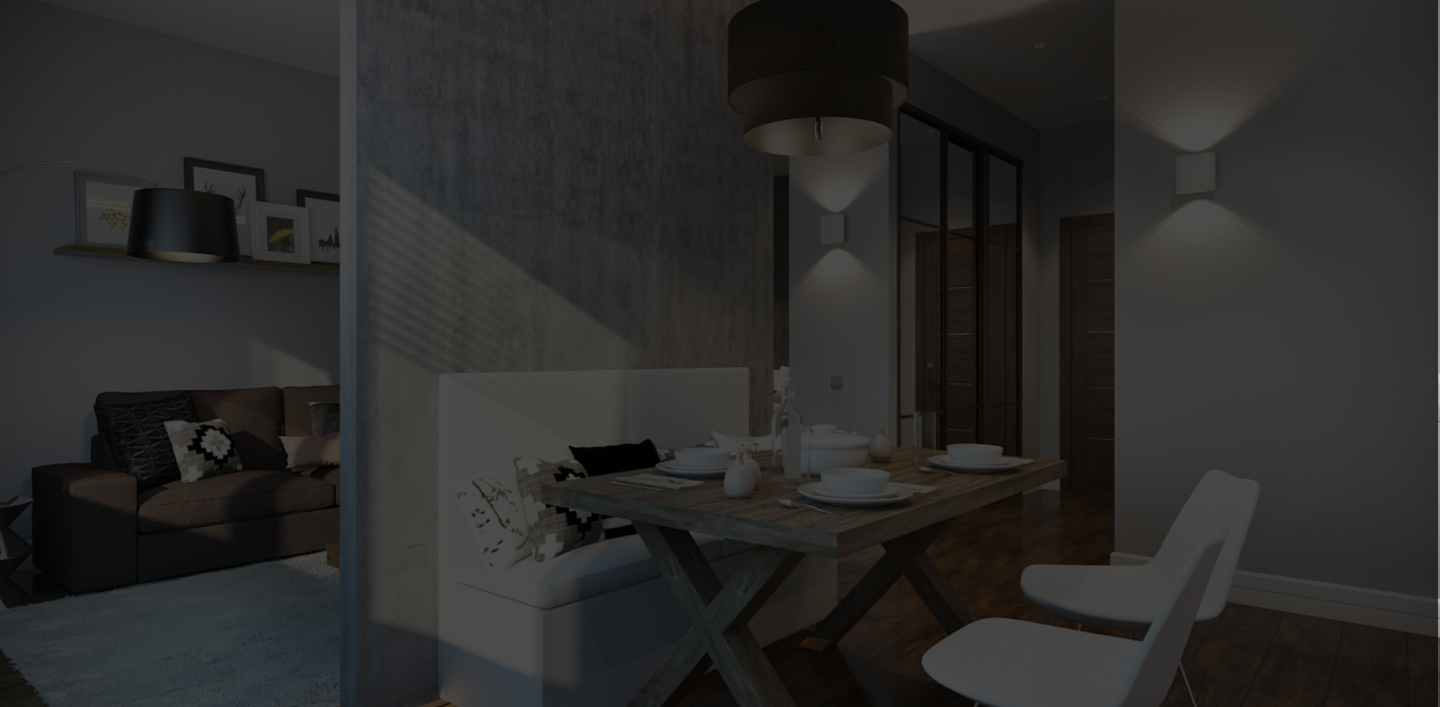
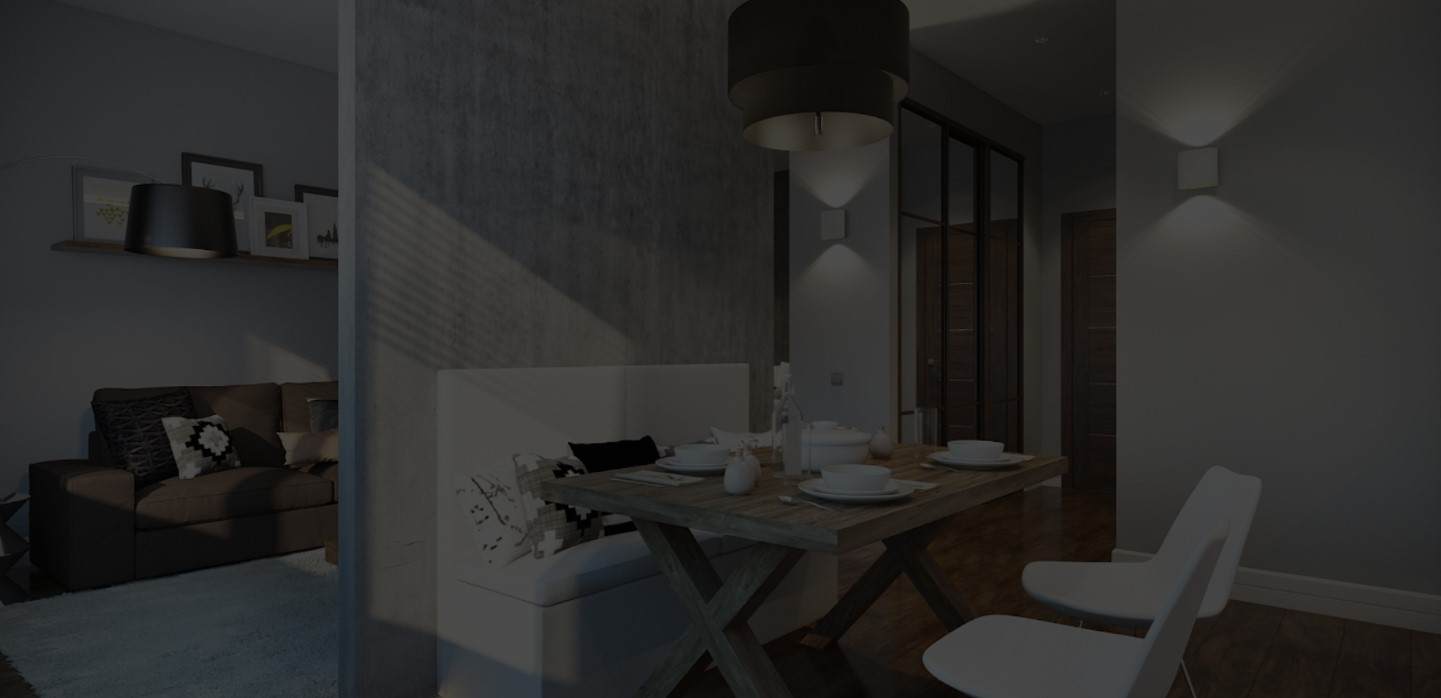
Доделан mobile-size
Изменны изоображения-bg-hero.jpeg,mobile__fantasies.png,control__video-play.svg
index - раздел hidden с картинкой;
map__wrap в .map.
css: подправлены стили для hero,completed,control,
request,fantasies,questions,footer;
доделана верстка под mobile__size

diff --git a/pages/style.css b/pages/style.css
@@ -123,7 +123,7 @@ img {
 }
 
 .hero__wrap {
-  max-width: 676.11px;
+  max-width: 530px;
 }
 
 .hero__title,
@@ -175,6 +175,7 @@ span {
 /* start comleted */
 
 .completed {
+  margin-top: -1px;
   background-color: rgb(19, 19, 19);
   padding: 107px 135px 415px;
   display: grid;
@@ -304,13 +305,20 @@ span {
   margin-bottom: 32px;
 }
 
+.control__wrap {
+  display: flex;
+  flex-flow: column nowrap;
+  align-items: center;
+}
+
 .control__wrap_video {
   position: relative;
+  margin-bottom: 62px;
 }
 
 .control__play {
   position: absolute;
-  top: 173px;
+  top: 174px;
   right: 367px;
 }
 
@@ -388,6 +396,8 @@ span {
   line-height: 18px;
   text-align: center;
 }
+
+.control__checkbox {}
 
 .control__checkbox_input,
 .form__checkbox {
@@ -514,7 +524,7 @@ span {
 /* start request */
 
 .request {
-  background: url(../image/bg__request.png) no-repeat -100%;
+  background: url(../image/bg__request.png) no-repeat -100% -80%;
   display: flex;
   flex-flow: column nowrap;
   align-items: end;
@@ -622,7 +632,8 @@ span {
 /* start fantasies */
 
 .fantasies {
-  background: url(../image/bg-fantasies.jpeg) no-repeat;
+  background-image: url(../image/bg-fantasies.jpeg);
+  background-repeat: no-repeat;
   background-size: cover;
   display: flex;
   flex-flow: row nowrap;
@@ -674,7 +685,7 @@ span {
 }
 
 .fantasies__pictures {
-  display: grid;
+  display: flex;
   flex-flow: column nowrap;
   position: relative;
   margin-right: 102px;
@@ -877,7 +888,6 @@ span {
   background: none;
   color: #fff;
   border-bottom: 1px solid rgba(255, 255, 255, 0.15);
-  ;
 }
 
 .questions__form_input::placeholder {
@@ -885,7 +895,7 @@ span {
 }
 
 .three>.questions__form_input {
-  width: 516px;
+  max-width: 516px;
 }
 
 .questions__checkbox {
@@ -943,8 +953,16 @@ span {
 
 /* end map */
 
+/* footer start */
+
+.footer {
+  margin-top: -1px;
+}
+
+/* footer end */
+
 /* start large size */
-@media screen and (max-width: 2500px) and (min-width: 1401px) {
+@media screen and (max-width: 2500px) and (min-width: 1402px) {
 
   .control__wrap_video,
   .control__text,
@@ -991,7 +1009,15 @@ span {
   .header__button,
   .completed__list,
   .completed__img,
-  .control__inputs_button {
+  .control__inputs_button,
+  .request,
+  .img__one,
+  .img__two,
+  .img__three,
+  .img__four,
+  .clients,
+  .fantasies__list,
+  .footer {
     display: none;
   }
 
@@ -1042,8 +1068,13 @@ span {
     margin-bottom: 32px;
   }
 
+  .button__orange {
+    width: 340px;
+    padding: 19px 0;
+  }
+
   .hero__button {
-    width: 338.61px;
+    width: 340px;
     margin: 0 0 26px;
     padding: 19px 0;
   }
@@ -1087,7 +1118,7 @@ span {
   }
 
   .control {
-    margin: 0 auto;
+    margin: -1px auto;
     margin-bottom: 58px;
   }
 
@@ -1111,9 +1142,9 @@ span {
   }
 
   .control__play {
-    top: 33%;
-    left: 42%;
-    width: 60px;
+    top: 75px;
+    left: 151px;
+    width: 37px;
   }
 
   .control__text {
@@ -1137,27 +1168,28 @@ span {
     margin-right: 0px;
   }
 
-  .control__inputs_input_form {
-    background-color: rgb(19, 19, 19);
-  }
-
-  .control__inputs_input_text {
+  .control__inputs_input_text,
+  .form__text {
     color: rgba(255, 255, 255, 0.5);
   }
 
-  .control__inputs_input_form {
+  .control__inputs_input_form,
+  .form__input {
+    background-color: rgb(19, 19, 19);
     width: 339.99px;
     border-bottom: 1px solid rgb(255, 255, 255);
     color: #ffffff;
   }
 
-  .control__inputs_input_form::placeholder {
+  .control__inputs_input_form::placeholder,
+  .form__input::placeholder {
     color: rgb(255, 255, 255);
     line-height: 138.72%;
     text-align: left;
   }
 
-  .control__checkbox_input_text {
+  .control__checkbox_input_text,
+  .form__checkbox-text {
     color: rgb(255, 255, 255);
     font-size: 14px;
     line-height: 163.68%;
@@ -1166,15 +1198,142 @@ span {
   .control__inputs_button {
     margin-top: -26px;
     box-shadow: 0px 10px 20px 0px rgba(227, 184, 115, 0.1);
-    padding: 20px 147px;
   }
 
-  .types,
-  .request,
-  .fantasies,
-  .clients,
-  .wrapper__bg,
-  .footer {
-    display: none;
+  .types {
+    margin-bottom: 55px;
+    padding: 0 18px;
+  }
+
+  .types__title {
+    font-size: 22px;
+    line-height: 138.6%;
+    margin-bottom: 40px;
+  }
+
+  .types__cards {
+    flex-flow: column nowrap;
+    gap: 59px;
+  }
+
+  .types__card_img {
+    width: 340px;
+  }
+
+  .types__card_wrap {
+    align-self: start;
+    width: 270px;
+    height: 241px;
+    margin-left: -1px;
+  }
+
+  .types__card_list_title {
+    text-transform: none;
+    font-size: 15px;
+    line-height: 138.6%;
+  }
+
+  .types__card_button {
+    width: auto;
+    margin-left: 0;
+    padding: 11px 19px;
+  }
+
+  .types__card_button_text {
+    font-size: 15px;
+    line-height: 138.6%;
+  }
+
+  .fantasies {
+    box-sizing: border-box;
+    background-image: none;
+    background: linear-gradient(180deg, rgb(255, 255, 255) 53%, rgb(19, 19, 19) 47%);
+    max-height: 384px;
+    flex-flow: column nowrap;
+    align-items: center;
+    margin-bottom: 0;
+  }
+
+  .fantasies__desc {
+    margin: 0;
+  }
+
+  .fantasies__desc_title {
+    font-size: 22px;
+    line-height: 138.6%;
+    text-align: center;
+    margin-bottom: 24px;
+  }
+
+  .fanasies__wrap-img {
+    position: relative;
+  }
+
+  .fantasies__img {
+    z-index: 1;
+  }
+
+  .fantasies__img-svg {
+    z-index: 2;
+    position: absolute;
+    top: 100px;
+    right: 13px;
+  }
+
+  .wrapper__bg {
+    background: rgb(19, 19, 19);
+    padding: 0;
+    margin-top: -1px;
+  }
+
+  .questions {
+    margin: 0;
+    background: rgb(19, 19, 19);
+    padding: 0 18px 46px;
+  }
+
+  .questions__title {
+    margin-bottom: 52px;
+  }
+
+  .questions__wrap {
+    display: flex;
+    flex-flow: column nowrap;
+    max-width: 340px;
+    gap: 63px;
+    margin-bottom: 21px;
+  }
+
+  .questions__checkbox {
+    margin-bottom: 67px;
+    align-self: flex-start;
+  }
+
+  .map {
+    display: flex;
+    flex-flow: column-reverse nowrap;
+    max-width: 340px;
+    margin: 0 auto;
+  }
+
+  .map__img {
+    max-width: 100%;
+    margin-bottom: 41px;
+  }
+
+  .map__desc {
+    font-size: 18px;
+    line-height: 138.6%;
+  }
+
+  .map__links {
+    margin-bottom: 49px;
+  }
+
+  .map__links_link>img {
+    width: 39px;
+    height: 39px;
   }
 }
+
+/* end mobile size */

diff --git a/pages/index.html b/pages/index.html
@@ -239,6 +239,10 @@
           <li class="fantasies__list_element">Eclecticism</li>
         </ul>
       </div>
+      <div class="fanasies__wrap-img hidden">
+        <img src="../image/mobile__fantasies.png" alt="Изображение одного из видов дизайна комнаты" class="fantasies__img">
+        <img src="../image/svg/mobile__button.svg" alt="Изображение одного из видов дизайна комнаты" class="fantasies__img-svg">
+      </div>
       <div class="fantasies__pictures">
         <img src="../image/fantasies_1.png" alt="Изображение одного из видов дизайна комнаты" class="fantasies__pictures_img img__one">
         <img src="../image/fantasies_2.png" alt="Изображение одного из видов дизайна комнаты" class="fantasies__pictures_img img__two">
@@ -323,11 +327,13 @@
       <!-- end questions -->
       <!-- start map -->
       <section class="map">
-        <p class="map__desc">Rostov-on-Don, Nansen St., 239 Shopping Center
-          Decorum Tel +7 (928) 768 32 29</p>
-        <div class="map__links">
-          <a href="#!" class="map__links_link"><img src="../image/svg/email.svg"></a>
-          <a href="#!" class="map__links_link"><img src="../image/svg/instagram.svg"></a>
+        <div class="map__wrap">
+          <p class="map__desc">Rostov-on-Don, Nansen St., 239 Shopping Center
+            Decorum Tel +7 (928) 768 32 29</p>
+          <div class="map__links">
+            <a href="#!" class="map__links_link"><img src="../image/svg/email.svg"></a>
+            <a href="#!" class="map__links_link"><img src="../image/svg/instagram.svg"></a>
+          </div>
         </div>
         <img src="../image/map.png" alt="Map" class="map__img">
       </section>
